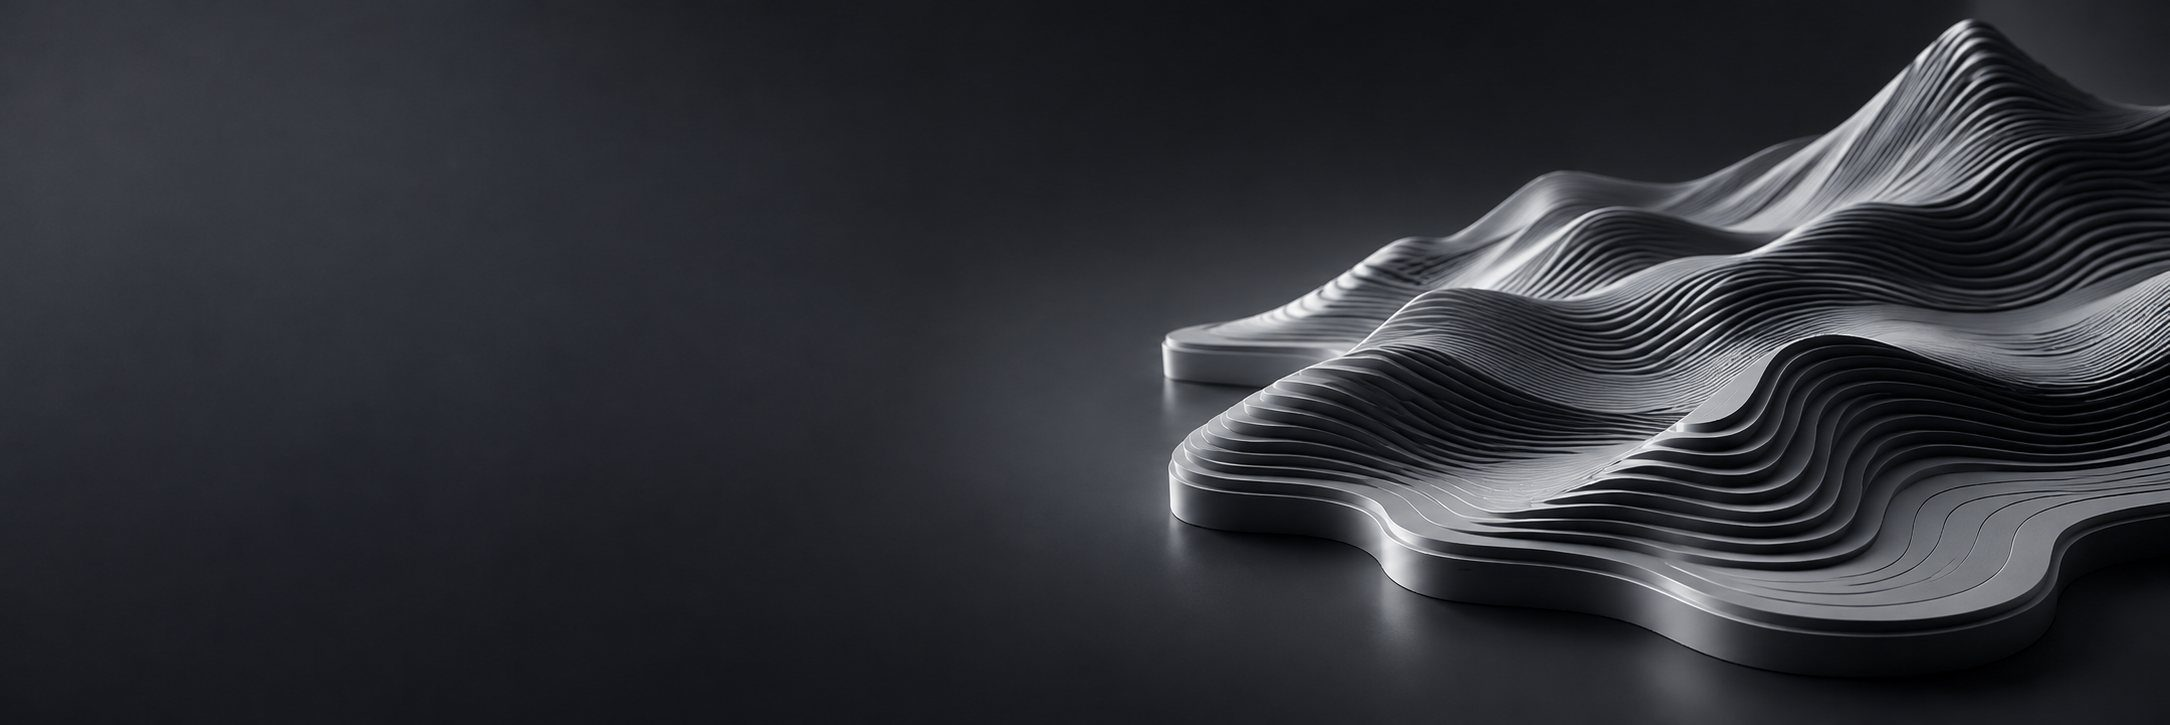
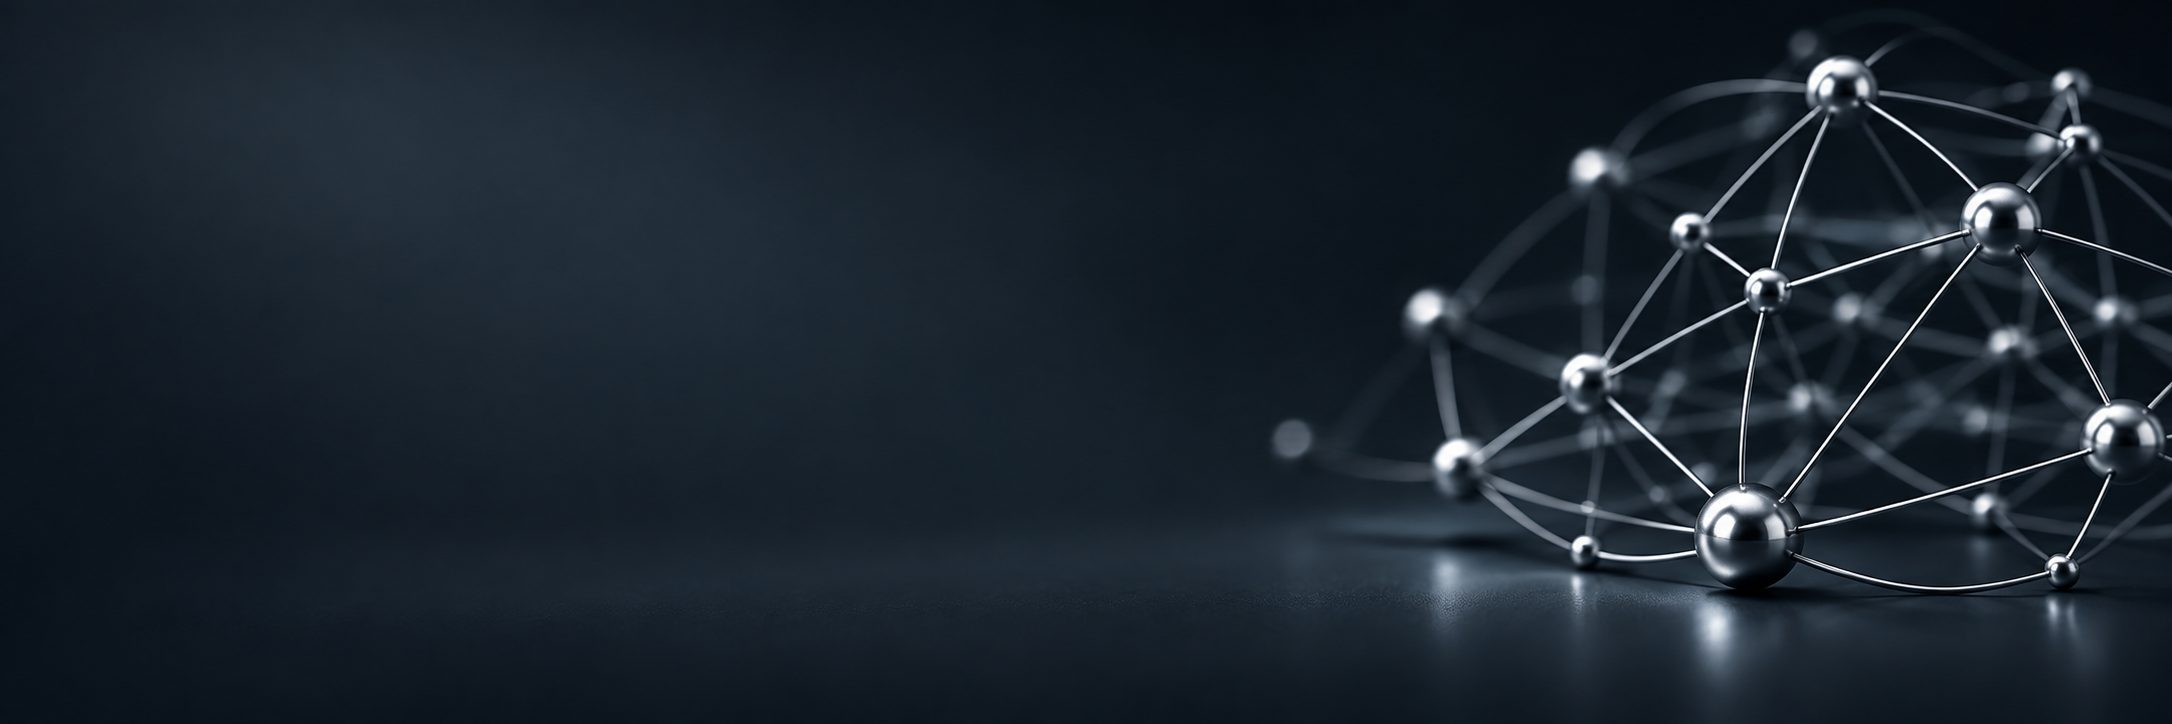
Avaleht: tumeda teema uus päisepilt (kroomitud võrgustik)
Claude-Session: https://claude.ai/code/session_019y96C7jSnRUVMso94MMyi9

diff --git a/tehisaru-seire/sait/stiil.css b/tehisaru-seire/sait/stiil.css
@@ -1350,7 +1350,7 @@ html[data-t] .pea-rahu.pilt::before {
 html[data-t] .pea-rahu.pilt h1 { max-width: 22ch; }
 html[data-t] .pea-rahu.pilt .alla { max-width: 56ch; }
 html[data-t] .pea-rahu.pilt + nav .sellel { margin-top: 24px; }
-/* Tume teema: oma pilt (Kadri 9.11.2026 16:41: tumedas T2 lained, heledas H1 võrk), sama üleminek, mustvalge, nähtavus 55% */
+/* Tume teema: oma pilt (Kadri 11.11.2026: tumedas kroomitud võrgustik hämaral pinnal; heledas H1 võrk), sama üleminek, mustvalge, nähtavus 55% */
 html[data-t][data-seire-teema="dark"] .pea-rahu.pilt::before { filter: grayscale(1); opacity: .55;
   background: linear-gradient(90deg, var(--page) 0%, color-mix(in srgb, var(--page) 70%, transparent) 38%, transparent 70%),
               linear-gradient(0deg, var(--page) 0%, transparent 30%),

diff --git a/UUENDUSED.md b/UUENDUSED.md
@@ -4,6 +4,7 @@ Uuemad üleval. Varasem ajalugu (26.–30.10.2026) on algses projekti kaustas.
 
 | Aeg | Mis muutus |
 |---|---|
+| 11.11.2026 | Seire sait, avaleht: tumeda teema päisepilt on nüüd kroomitud võrgustik hämaral pinnal (`sait/pilt/avaleht-tume.jpg`, 2172×724, JPEG). Heleda teema pilt jäi samaks. Kadri valik. |
 | 11.11.2026 | Seire sait, Uudised: „uus“ silt järgib nüüd avaldamise kuupäeva (viimase kontrolli päev ja sellele eelnev päev), mitte lisamise päeva. Kadri leidis, et sildid ei klappinud kuupäevadega: täna leitud 9.11 uudis sai sildi, 10.11 uudis mitte. Seisu rida ütleb vahemiku. |
 | 11.11.2026 | Seire sait, Töö › Tööportaalid: valdkonna filter (Kadri). Kui `toopakkumised.json` portaalil on `valdkonniti` (iga suurema valdkonna linnad ja tööandjad), saab valdkonna valida ja linnade ning tööandjate graafik näitab selle valdkonna jaotust; valik jääb aadressi (`?valdkond=`). Andmeteta jääb vana vaade. Test `test_tooportaalide_valdkonna_filter`. Töötukassa on oma sakis: jaotus tuleb Töötukassa vahendatud kuulutustest CV.ee-s (tööturu-uudiste kogumine 11.11) ja lehel on kirjas, et see ei klapi Töötukassa kogu arvuga. Ettekannete filtris on kombinatsioon, millega tulemusi pole, keelatud ja nuppude arvud näitavad teise valiku järgi (Kadri). Andmed: `sait/sisu/toopakkumised.json`. |
 | 11.11.2026 | Seire sait, Uudised: kaks filtririda. Valdkond (tehisaru vaikimisi, andmed, kõik) ja teema (töö, riik, uuring, muu, eksitav, koondamine). Riigi strateegiad on maailma paneelis riigi all, varem polnud neil filtrit. Valdkond tuleb kogumise väljast `valdkond` või tuletatakse teemast, tehisaru rollist ja pealkirjast. Null arvuga nupp on keelatud. Kadri soov. |
